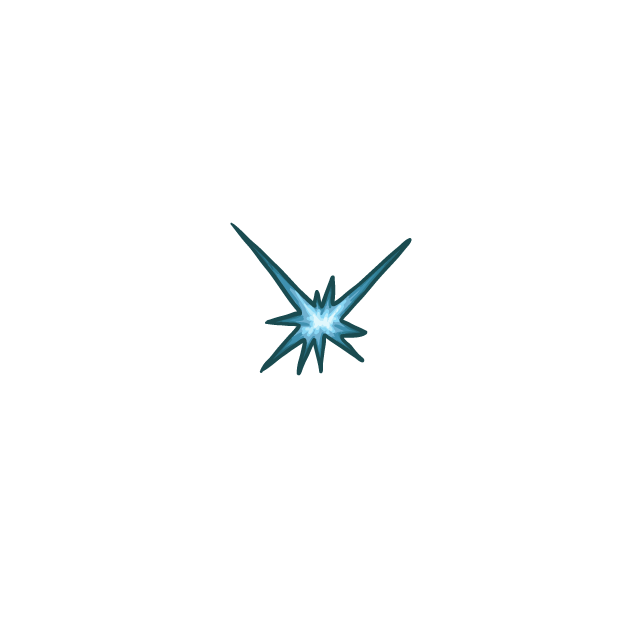
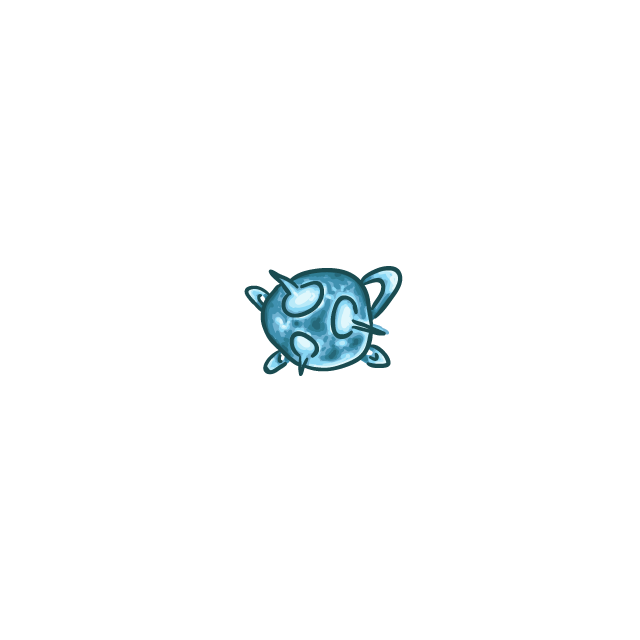
Animation energy

Changed region(s): [[0.3438, 0.3438, 0.6562, 0.5938]]

diff --git a/code/GameScreen.py b/code/GameScreen.py
@@ -7,6 +7,7 @@ from pygame.font import Font
 from code.BgMediator import BgMediator
 from code.Const import WIN_WIDTH, WIN_HEIGHT, SOUND_GAME_VOLUME, C_YELLOW1, C_GREY, C_BLUE, C_RED, \
     PS_SUBTRACT_ENERGY, SOUND_SHOT_VOLUME, SOUND_EXPLOSION, SOUND_HURT_VOLUME
+from code.EntityAnim import EntityAnim
 from code.EntityMediator import EntityMediator
 from code.EntityPlayer import EntityPlayer
 from code.PlayerStatus import PlayerStatus
@@ -18,6 +19,16 @@ class GameScreen:
         self.screen = pygame.display.set_mode((WIN_WIDTH, WIN_HEIGHT))
 
     def run(self):
+
+        energy = EntityAnim(
+            self.screen,
+            './Assets/Energy_',
+            9,  # total de frames
+            (120, 120),  # tamanho de cada frame
+            (100, 0),  # posição inicial
+            2  # velocidade
+        )
+
         ps = PlayerStatus()
         player = EntityPlayer(self.screen, './Assets/Player_ship.png', (WIN_WIDTH / 2 - 24, WIN_HEIGHT / 2))
 
@@ -39,21 +50,26 @@ class GameScreen:
         entity_med = EntityMediator(self.screen, sound_explosion, sound_hurt, player, ps)
         spawn_manager = SpawnManager(self.screen)
 
-
-
-
         list_player_shoot = []
         list_entity = []
         list_animation = []
+        list_alien_shot = []
 
         while True:
             clock.tick(60)
             self.screen.fill((0, 0, 0))
             bg_med.run()
-            entity_med.run([list_player_shoot, list_entity], list_animation)
+            entity_med.run([list_player_shoot, list_entity], list_animation, list_alien_shot)
             spawn_manager.run(list_entity)
 
             ps.timer()
+
+            energy.run()
+
+            for i in range(len(list_alien_shot)):
+                if len(list_alien_shot) != 0:
+                    list_alien_shot[i].run()
+                    print(len(list_alien_shot))
 
             for i in range(len(list_player_shoot)):
                 if len(list_player_shoot) != 0:
@@ -61,7 +77,7 @@ class GameScreen:
 
             for i in range(len(list_entity)):
                 if len(list_entity) != 0:
-                    list_entity[i].run()
+                    list_entity[i].run(list_alien_shot)
 
             for i in range(len(list_animation)):
                 if len(list_animation) != 0:

diff --git a/code/EntityMediator.py b/code/EntityMediator.py
@@ -2,7 +2,8 @@ import pygame
 
 from code.AlienShot import AlienShot
 from code.Animation import Animation
-from code.Const import WIN_HEIGHT, PS_METEOR_SCORE, SOUND_DELAY_HURT, PS_DAMAGE_COLLISION, PS_ALIEN_SCORE
+from code.Const import WIN_HEIGHT, PS_METEOR_SCORE, SOUND_DELAY_HURT, PS_DAMAGE_COLLISION, PS_ALIEN_SCORE, \
+    ALIEN_SHOT_DAMAGE
 from code.EntityPlayer import EntityPlayer
 from code.EntityProjectile import EntityProjectile
 from code.MyTimer import MyTimer
@@ -17,12 +18,14 @@ class EntityMediator:
         self.ps = ps
         self.timer_hurt = MyTimer(SOUND_DELAY_HURT)
 
-    def run(self, list_pj: list[list[EntityProjectile]], list_animation: list[Animation]):
+    def run(self, list_pj: list[list[EntityProjectile]], list_animation: list[Animation], list_alien_shot: list[AlienShot]):
         self.verify_entity_in_screen(list_pj[0], -33)
         self.verify_entity_in_screen(list_pj[1], WIN_HEIGHT)
         self.verify_collision_player_shot_to_entity(list_pj[0], list_pj[1], list_animation)
         self.verify_collision_player_to_entity(self.entity_player, list_pj[1])
         self.timer_hurt.run()
+        self.verify_alien_shot_in_window(list_alien_shot)
+        self.verify_player_to_alien_shot(self.entity_player, list_alien_shot)
 
     def verify_entity_in_screen(self, list_entity: list[EntityProjectile], limit: int):
         for pj in list_entity:
@@ -78,6 +81,20 @@ class EntityMediator:
                     self.sound_hurt.play()
                 if self.ps.health <= 0:
                     print('game over')
+
+    def verify_alien_shot_in_window(self, list_alien_shot: list[AlienShot]):
+        for shot in list_alien_shot:
+            if shot.rect.top > WIN_HEIGHT:
+                list_alien_shot.remove(shot)
+
+    def verify_player_to_alien_shot(self, player: EntityPlayer,
+                                          list_alien_shot: list[AlienShot]):
+        for shot in list_alien_shot:
+            if player.rect.colliderect(shot.rect):
+                self.sound_hurt.play()
+                self.ps.subtract_health(ALIEN_SHOT_DAMAGE)
+                list_alien_shot.remove(shot)
+
 
 
 

diff --git a/code/EntityProjectile.py b/code/EntityProjectile.py
@@ -16,22 +16,16 @@ class EntityProjectile(Entity):
         self.speed = speed
         self.health = health
         self.damage_collision = damage_collision
-        self.shot: list[AlienShot] = []
         self.timer_alien_shot = MyTimer(ALIEN_FIRE_RATE)
 
-    def run(self):
+    def run(self, list_alien_shot: list):
         if self.img_png == './Assets/Alien_ship.png':
             self.timer_alien_shot.run()
-            if len(self.shot) > 0:
-                for shot in self.shot:
-                    shot.run()
-                    self.verify_alien_shot_in_window(shot, self.shot)
-                    print(len(self.shot))
 
             if self.timer_alien_shot.seconds >= ALIEN_FIRE_RATE:
                 self.timer_alien_shot.start_time = pygame.time.get_ticks()
                 shot = AlienShot(self.screen, './Assets/Alien_shot.png', (self.position[0] + 17, self.position[1]))
-                self.shot.append(shot)
+                list_alien_shot.append(shot)
         self.draw_entity()
         self.move(self.direction)
 
@@ -42,6 +36,4 @@ class EntityProjectile(Entity):
             self.vector_y += self.speed
         self.position = (self.vector_x, self.vector_y)
 
-    def verify_alien_shot_in_window(self, alien_shot: AlienShot, list_alien_shot: list[AlienShot]):
-        if alien_shot.rect.top > WIN_HEIGHT:
-            list_alien_shot.remove(alien_shot)
+

diff --git a/code/EntityAnim.py b/code/EntityAnim.py
@@ -1,0 +1,35 @@
+import pygame
+
+class EntityAnim:
+    def __init__(self, screen, image_path: str, frame_count: int, size: tuple, pos: tuple, speed: int):
+        self.screen = screen
+        self.pos = list(pos)
+        self.speed = speed
+
+        # Carregar frames com redimensionamento
+        self.frames = [
+            pygame.transform.scale(
+                pygame.image.load(f'{image_path}{i}.png').convert_alpha(),
+                size
+            )
+            for i in range(1, frame_count + 1)
+        ]
+
+        self.current_frame = 0
+        self.frame_delay = 100  # ms
+        self.last_update = pygame.time.get_ticks()
+
+    def update(self):
+        self.pos[1] += self.speed
+
+        now = pygame.time.get_ticks()
+        if now - self.last_update >= self.frame_delay:
+            self.current_frame = (self.current_frame + 1) % len(self.frames)
+            self.last_update = now
+
+    def draw(self):
+        self.screen.blit(self.frames[self.current_frame], self.pos)
+
+    def run(self):
+        self.update()
+        self.draw()

diff --git a/code/Entity.py b/code/Entity.py
@@ -1,7 +1,5 @@
 import pygame
 
-from code.Const import WIN_WIDTH, WIN_HEIGHT
-
 
 class Entity:
     def __init__(self, screen, img_png: str, position: tuple):

diff --git a/code/Const.py b/code/Const.py
@@ -3,6 +3,7 @@ import pygame
 # A
 ALIEN_SPEED_SHOT = (5, 15)
 ALIEN_FIRE_RATE =  1
+ALIEN_SHOT_DAMAGE = 10
 
 
 # C
